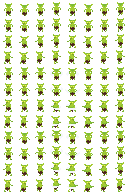
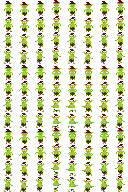
Changed goblin to christmas theme

diff --git a/Defnight/MainMenuState.cpp b/Defnight/MainMenuState.cpp
@@ -68,7 +68,7 @@ void MainMenuState::initGUI()
 	this->text_buttons["SETTINGS"] = new gui::ButtonText(&this->font, this->lang["SETTINGS"], calcChar(32, vm), calcX(640, vm), calcY(466, vm), sf::Color(255, 255, 255), sf::Color(192, 192, 192), true);
 	this->text_buttons["QUIT"] = new gui::ButtonText(&this->font, this->lang["QUIT"], calcChar(32, vm), calcX(640, vm), calcY(558, vm), sf::Color(255, 255, 255), sf::Color(192, 192, 192), true);
 
-	this->texts["VERSION"] = new gui::Text(&this->font, "v0.2.1", calcChar(16, vm), calcX(1272, vm), calcY(700, vm), sf::Color(255, 255, 255), false);
+	this->texts["VERSION"] = new gui::Text(&this->font, "v0.2.2", calcChar(16, vm), calcX(1272, vm), calcY(700, vm), sf::Color(255, 255, 255), false);
 	this->texts["VERSION"]->setPosition(sf::Vector2f(calcX(1272, vm) - this->texts["VERSION"]->getWidth(), calcY(700, vm)));
 
 	this->quitwindow = false;

diff --git a/Defnight/Game.cpp b/Defnight/Game.cpp
@@ -116,6 +116,7 @@ void Game::update()
 					delete this->states.top();
 					this->states.pop();
 				}
+				this->musicEngine->stopMusic();
 				this->close();
 				this->init();
 			}
